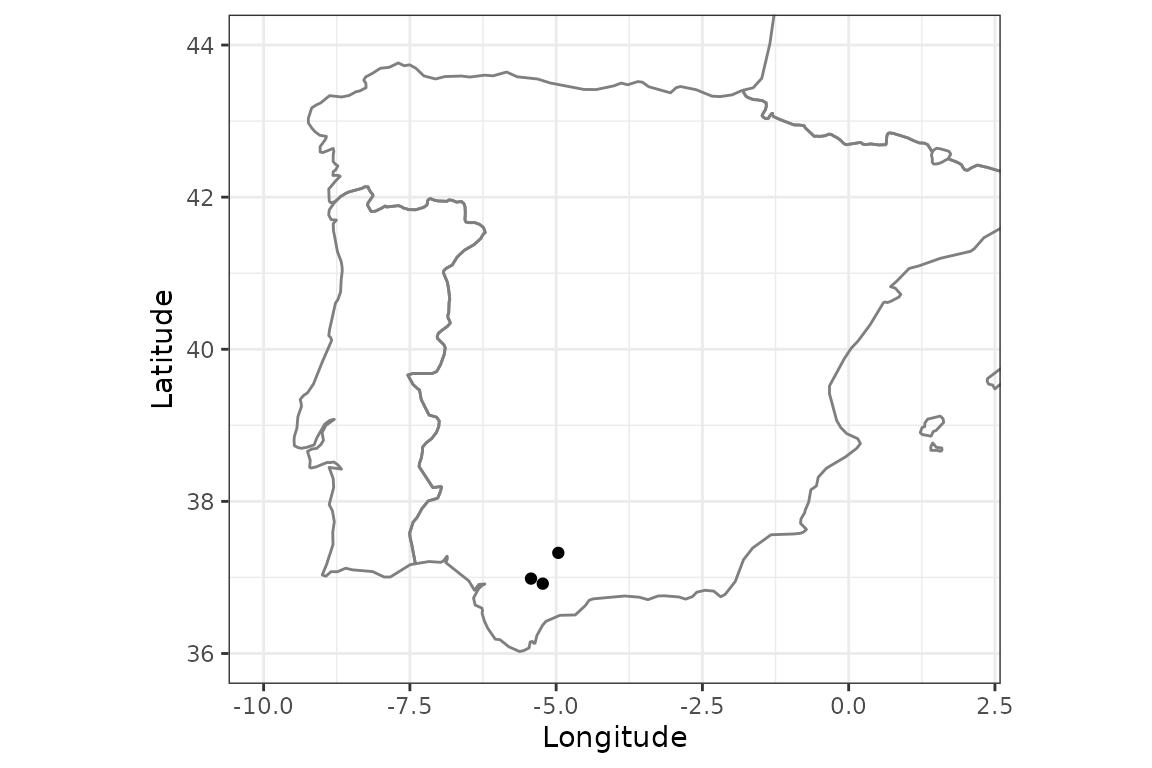
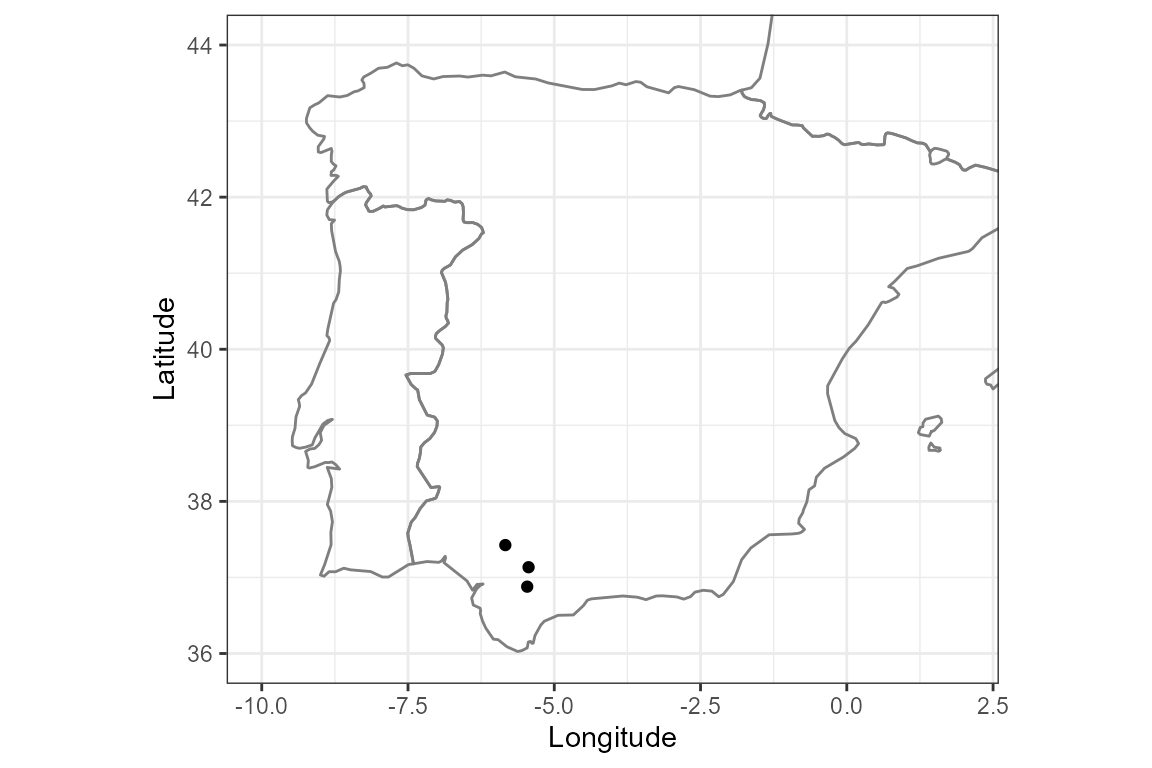
trying progress bar and review of vignettes

diff --git a/docs/articles/points-df-mat-sf.html b/docs/articles/points-df-mat-sf.html
@@ -82,7 +82,7 @@
 
       
 
-      </header><script src="points-df-mat-sf_files/header-attrs-2.9/header-attrs.js"></script><div class="row">
+      </header><script src="points-df-mat-sf_files/header-attrs-2.8/header-attrs.js"></script><div class="row">
   <div class="col-md-9 contents">
     <div class="page-header toc-ignore">
       <h1 data-toc-skip>Analysing the climate at spatial points for a given period</h1>
@@ -95,15 +95,16 @@
 
     
     
-<p><code>easyclimate</code> aims to easily download daily climate data for a given set of points or polygons within Europe. You can download and install the latest version of <code>easyclimate</code> from github: <a href="https://github.com/VeruGHub/easyclimate" class="uri">https://github.com/VeruGHub/easyclimate</a></p>
+<pre><code>## Warning: package 'knitr' was built under R version 4.0.5</code></pre>
+<p><code>easyclimate</code> aims to easily download daily climate data for a given set of points or polygons within Europe. To download and install the latest version of <code>easyclimate</code> from github follow the instructions in <a href="https://github.com/VeruGHub/easyclimate" class="uri">https://github.com/VeruGHub/easyclimate</a></p>
 <p><br></p>
-<p>In this tutorial we will work through the basics of using easyclimate with coordinate points. You can enter coordinates as a data.frame, matrix, or <code>sf</code> object. At the end we will get a data frame with climatic variables for our points.</p>
+<p>In this tutorial we will work through the basics of using easyclimate with coordinate points. You can enter coordinates as a <code>data.frame</code>, <code>matrix</code>, or <code>sf</code> object. At the end we will get a data frame with climatic variables for our points.</p>
 <p><br></p>
 <div id="example-1-introducing-coordinates-as-a-data-frame" class="section level1">
 <h1 class="hasAnchor">
 <a href="#example-1-introducing-coordinates-as-a-data-frame" class="anchor"></a>Example 1: Introducing coordinates as a data frame</h1>
 <p>First, specify longitude and latitude coordinates in a data frame with the column names <code>lon</code> and <code>lat</code>. Here we are simulating coordinates for three random sites in southern Spain</p>
-<div class="sourceCode" id="cb1"><pre class="downlit sourceCode r">
+<div class="sourceCode" id="cb2"><pre class="downlit sourceCode r">
 <code class="sourceCode R"><span class="kw"><a href="https://rdrr.io/r/base/library.html">library</a></span><span class="op">(</span><span class="va"><a href="https://github.com/VeruGHub/easyclimate">easyclimate</a></span><span class="op">)</span>
 <span class="kw"><a href="https://rdrr.io/r/base/library.html">library</a></span><span class="op">(</span><span class="va"><a href="https://ggplot2.tidyverse.org">ggplot2</a></span><span class="op">)</span>
 <span class="kw"><a href="https://rdrr.io/r/base/library.html">library</a></span><span class="op">(</span><span class="va"><a href="https://dplyr.tidyverse.org">dplyr</a></span><span class="op">)</span>
@@ -123,10 +124,10 @@
 <p><img src="points-df-mat-sf_files/figure-html/unnamed-chunk-1-1.png" width="576"></p>
 <p><br></p>
 <p>Now, download the climatic data for the selected locations. It is very simple, all you have to do is use the function <code>get_daily_climate</code>, specify the period (e.g. <code>2008-05-25</code> for a single day or <code>2008:2010</code> for several years), and the variables to be downloaded (precipitation <code>Prcp</code>, minimum temperatures <code>Tmin</code> or maximum temperatures <code>Tmax</code>).</p>
-<div class="sourceCode" id="cb2"><pre class="downlit sourceCode r">
+<div class="sourceCode" id="cb3"><pre class="downlit sourceCode r">
 <code class="sourceCode R">
 <span class="fu"><a href="https://rdrr.io/r/base/Sys.time.html">Sys.time</a></span><span class="op">(</span><span class="op">)</span> <span class="co"># to know how much it takes to download</span>
-<span class="co">## [1] "2021-07-07 18:20:51 CEST"</span>
+<span class="co">## [1] "2021-07-09 23:33:45 EDT"</span>
 
 <span class="va">df_prcp</span> <span class="op">&lt;-</span> <span class="fu"><a href="../reference/get_daily_climate.html">get_daily_climate</a></span><span class="op">(</span>
   coords <span class="op">=</span> <span class="va">coords</span>, 
@@ -147,18 +148,18 @@
 <span class="op">)</span>
 
 <span class="fu"><a href="https://rdrr.io/r/base/Sys.time.html">Sys.time</a></span><span class="op">(</span><span class="op">)</span>
-<span class="co">## [1] "2021-07-07 18:23:25 CEST"</span>
+<span class="co">## [1] "2021-07-09 23:39:36 EDT"</span>
 
 <span class="fu"><a href="https://rdrr.io/pkg/terra/man/headtail.html">head</a></span><span class="op">(</span><span class="va">df_prcp</span><span class="op">[</span>, <span class="fu"><a href="https://rdrr.io/pkg/terra/man/c.html">c</a></span><span class="op">(</span><span class="st">"lon"</span>, <span class="st">"lat"</span>, <span class="st">"date"</span>, <span class="st">"Prcp"</span><span class="op">)</span><span class="op">]</span><span class="op">)</span>
 <span class="co">##         lon      lat       date Prcp</span>
-<span class="co">## 1 -5.429536 36.98474 2008-01-01  227</span>
-<span class="co">## 2 -5.429536 36.98474 2008-01-02 2328</span>
-<span class="co">## 3 -5.429536 36.98474 2008-01-03  925</span>
-<span class="co">## 4 -5.429536 36.98474 2008-01-04    0</span>
-<span class="co">## 5 -5.429536 36.98474 2008-01-05    0</span>
-<span class="co">## 6 -5.429536 36.98474 2008-01-06    0</span></code></pre></div>
+<span class="co">## 1 -5.836705 37.42518 2008-01-01  730</span>
+<span class="co">## 2 -5.836705 37.42518 2008-01-02 2349</span>
+<span class="co">## 3 -5.836705 37.42518 2008-01-03  309</span>
+<span class="co">## 4 -5.836705 37.42518 2008-01-04    0</span>
+<span class="co">## 5 -5.836705 37.42518 2008-01-05    0</span>
+<span class="co">## 6 -5.836705 37.42518 2008-01-06    0</span></code></pre></div>
 <p>Temperature and precipitation units are ºC*100 and mm*100 to avoid floating values. You can mutate them and join all the variables in a data frame.</p>
-<div class="sourceCode" id="cb3"><pre class="downlit sourceCode r">
+<div class="sourceCode" id="cb4"><pre class="downlit sourceCode r">
 <code class="sourceCode R">
 <span class="va">prcp_date</span> <span class="op">&lt;-</span> <span class="va">df_prcp</span> <span class="op">%&gt;%</span>
   <span class="fu"><a href="https://dplyr.tidyverse.org/reference/mutate.html">mutate</a></span><span class="op">(</span>prcp <span class="op">=</span> <span class="va">Prcp</span> <span class="op">/</span> <span class="fl">100</span><span class="op">)</span> <span class="op">%&gt;%</span> 
@@ -199,75 +200,75 @@
 <tbody>
 <tr class="odd">
 <td align="right">1</td>
-<td align="right">-5.429536</td>
-<td align="right">36.98474</td>
+<td align="right">-5.836705</td>
+<td align="right">37.42518</td>
 <td align="left">2008-01-01</td>
 <td align="left">08</td>
 <td align="left">enero</td>
-<td align="right">2.27</td>
-<td align="right">3.84</td>
-<td align="right">14.87</td>
+<td align="right">7.30</td>
+<td align="right">4.52</td>
+<td align="right">14.39</td>
 </tr>
 <tr class="even">
 <td align="right">1</td>
-<td align="right">-5.429536</td>
-<td align="right">36.98474</td>
+<td align="right">-5.836705</td>
+<td align="right">37.42518</td>
 <td align="left">2008-01-02</td>
 <td align="left">08</td>
 <td align="left">enero</td>
-<td align="right">23.28</td>
-<td align="right">7.57</td>
-<td align="right">15.03</td>
+<td align="right">23.49</td>
+<td align="right">9.85</td>
+<td align="right">15.91</td>
 </tr>
 <tr class="odd">
 <td align="right">1</td>
-<td align="right">-5.429536</td>
-<td align="right">36.98474</td>
+<td align="right">-5.836705</td>
+<td align="right">37.42518</td>
 <td align="left">2008-01-03</td>
 <td align="left">08</td>
 <td align="left">enero</td>
-<td align="right">9.25</td>
-<td align="right">6.31</td>
-<td align="right">14.85</td>
+<td align="right">3.09</td>
+<td align="right">8.54</td>
+<td align="right">14.60</td>
 </tr>
 <tr class="even">
 <td align="right">1</td>
-<td align="right">-5.429536</td>
-<td align="right">36.98474</td>
+<td align="right">-5.836705</td>
+<td align="right">37.42518</td>
 <td align="left">2008-01-04</td>
 <td align="left">08</td>
 <td align="left">enero</td>
 <td align="right">0.00</td>
-<td align="right">5.40</td>
-<td align="right">13.24</td>
+<td align="right">6.55</td>
+<td align="right">14.21</td>
 </tr>
 <tr class="odd">
 <td align="right">1</td>
-<td align="right">-5.429536</td>
-<td align="right">36.98474</td>
+<td align="right">-5.836705</td>
+<td align="right">37.42518</td>
 <td align="left">2008-01-05</td>
 <td align="left">08</td>
 <td align="left">enero</td>
 <td align="right">0.00</td>
-<td align="right">5.21</td>
-<td align="right">14.86</td>
+<td align="right">6.21</td>
+<td align="right">14.64</td>
 </tr>
 <tr class="even">
 <td align="right">1</td>
-<td align="right">-5.429536</td>
-<td align="right">36.98474</td>
+<td align="right">-5.836705</td>
+<td align="right">37.42518</td>
 <td align="left">2008-01-06</td>
 <td align="left">08</td>
 <td align="left">enero</td>
 <td align="right">0.00</td>
-<td align="right">8.64</td>
-<td align="right">16.01</td>
+<td align="right">12.06</td>
+<td align="right">15.52</td>
 </tr>
 </tbody>
 </table>
 <p><br></p>
 <p>Finally, you can visualize the daily climate results. For example, let’s plot the precipitation for one of the sites:</p>
-<div class="sourceCode" id="cb4"><pre class="downlit sourceCode r">
+<div class="sourceCode" id="cb5"><pre class="downlit sourceCode r">
 <code class="sourceCode R"><span class="va">clim_site1</span> <span class="op">&lt;-</span> <span class="va">clim_join</span> <span class="op">%&gt;%</span> 
   <span class="fu"><a href="https://dplyr.tidyverse.org/reference/filter.html">filter</a></span><span class="op">(</span><span class="va">ID_coords</span> <span class="op">==</span> <span class="fl">1</span><span class="op">)</span>
 
@@ -278,7 +279,7 @@
 <p><img src="points-df-mat-sf_files/figure-html/unnamed-chunk-4-1.png" width="576"></p>
 <p><br></p>
 <p>Or let’s calculate daily mean temperature and plot it along with <code>tmin</code> and <code>tmax</code>:</p>
-<div class="sourceCode" id="cb5"><pre class="downlit sourceCode r">
+<div class="sourceCode" id="cb6"><pre class="downlit sourceCode r">
 <code class="sourceCode R"><span class="kw"><a href="https://rdrr.io/r/base/library.html">library</a></span><span class="op">(</span><span class="va"><a href="https://tidyr.tidyverse.org">tidyr</a></span><span class="op">)</span>
 
 <span class="va">clim_df</span> <span class="op">&lt;-</span> <span class="va">clim_join</span> <span class="op">%&gt;%</span>
@@ -294,11 +295,11 @@
   <span class="fu"><a href="https://ggplot2.tidyverse.org/reference/labs.html">ylab</a></span><span class="op">(</span><span class="st">"Temperature (ºC)"</span><span class="op">)</span> <span class="op">+</span> <span class="fu"><a href="https://ggplot2.tidyverse.org/reference/labs.html">xlab</a></span><span class="op">(</span><span class="st">""</span><span class="op">)</span> <span class="op">+</span>
   <span class="fu"><a href="https://ggplot2.tidyverse.org/reference/ggtheme.html">theme_bw</a></span><span class="op">(</span><span class="op">)</span></code></pre></div>
 <p><img src="points-df-mat-sf_files/figure-html/unnamed-chunk-5-1.png" width="576"></p>
-<div class="sourceCode" id="cb6"><pre class="downlit sourceCode r">
+<div class="sourceCode" id="cb7"><pre class="downlit sourceCode r">
 <code class="sourceCode R">
 <span class="fu"><a href="https://ggplot2.tidyverse.org/reference/ggplot.html">ggplot</a></span><span class="op">(</span><span class="va">clim_df</span>, <span class="fu"><a href="https://ggplot2.tidyverse.org/reference/aes.html">aes</a></span><span class="op">(</span>x <span class="op">=</span> <span class="va">date</span>, y <span class="op">=</span> <span class="va">temp_values</span>, color <span class="op">=</span> <span class="va">temp_vars</span><span class="op">)</span><span class="op">)</span> <span class="op">+</span> 
   <span class="fu"><a href="https://ggplot2.tidyverse.org/reference/geom_point.html">geom_point</a></span><span class="op">(</span>alpha <span class="op">=</span> <span class="fl">.1</span><span class="op">)</span> <span class="op">+</span>
-  <span class="fu"><a href="https://ggplot2.tidyverse.org/reference/scale_colour_discrete.html">scale_color_discrete</a></span><span class="op">(</span>name <span class="op">=</span> <span class="st">"Variables"</span>, 
+  <span class="fu"><a href="https://ggplot2.tidyverse.org/reference/scale_hue.html">scale_color_discrete</a></span><span class="op">(</span>name <span class="op">=</span> <span class="st">"Variables"</span>, 
                        guide <span class="op">=</span> <span class="fu"><a href="https://ggplot2.tidyverse.org/reference/guide_legend.html">guide_legend</a></span><span class="op">(</span>override.aes <span class="op">=</span> <span class="fu"><a href="https://rdrr.io/r/base/list.html">list</a></span><span class="op">(</span>alpha <span class="op">=</span> <span class="fl">1</span><span class="op">)</span><span class="op">)</span><span class="op">)</span> <span class="op">+</span>
   <span class="fu"><a href="https://ggplot2.tidyverse.org/reference/labs.html">ylab</a></span><span class="op">(</span><span class="st">"Temperature (ºC)"</span><span class="op">)</span> <span class="op">+</span> <span class="fu"><a href="https://ggplot2.tidyverse.org/reference/labs.html">xlab</a></span><span class="op">(</span><span class="st">"Date"</span><span class="op">)</span> <span class="op">+</span>
   <span class="fu"><a href="https://ggplot2.tidyverse.org/reference/ggtheme.html">theme_bw</a></span><span class="op">(</span><span class="op">)</span></code></pre></div>
@@ -310,12 +311,12 @@
 <a href="#example-2-introducing-coordinates-as-a-matrix" class="anchor"></a>Example 2: Introducing coordinates as a matrix</h1>
 <p><code>easyclimate</code> handles different input data, try now with matrices!</p>
 <p>Here we are retrieving daily precipitation data for a single year (2008).</p>
-<div class="sourceCode" id="cb7"><pre class="downlit sourceCode r">
+<div class="sourceCode" id="cb8"><pre class="downlit sourceCode r">
 <code class="sourceCode R">
 <span class="va">coords_mat</span> <span class="op">&lt;-</span> <span class="fu"><a href="https://rdrr.io/pkg/terra/man/coerce.html">as.matrix</a></span><span class="op">(</span><span class="va">coords</span><span class="op">)</span>
 
 <span class="fu"><a href="https://rdrr.io/r/base/Sys.time.html">Sys.time</a></span><span class="op">(</span><span class="op">)</span>
-<span class="co">## [1] "2021-07-07 18:23:26 CEST"</span>
+<span class="co">## [1] "2021-07-09 23:39:42 EDT"</span>
 
 <span class="va">mat_prcp</span> <span class="op">&lt;-</span> <span class="fu"><a href="../reference/get_daily_climate.html">get_daily_climate</a></span><span class="op">(</span> 
   coords <span class="op">=</span> <span class="va">coords_mat</span>, 
@@ -324,16 +325,16 @@
 <span class="op">)</span>
 
 <span class="fu"><a href="https://rdrr.io/r/base/Sys.time.html">Sys.time</a></span><span class="op">(</span><span class="op">)</span>
-<span class="co">## [1] "2021-07-07 18:23:35 CEST"</span>
+<span class="co">## [1] "2021-07-09 23:40:01 EDT"</span>
 
 <span class="fu"><a href="https://rdrr.io/pkg/terra/man/headtail.html">head</a></span><span class="op">(</span><span class="va">mat_prcp</span><span class="op">)</span>
 <span class="co">##   ID_coords         x        y       date Prcp</span>
-<span class="co">## 1         1 -5.429536 36.98474 2008-01-01  227</span>
-<span class="co">## 2         1 -5.429536 36.98474 2008-01-02 2328</span>
-<span class="co">## 3         1 -5.429536 36.98474 2008-01-03  925</span>
-<span class="co">## 4         1 -5.429536 36.98474 2008-01-04    0</span>
-<span class="co">## 5         1 -5.429536 36.98474 2008-01-05    0</span>
-<span class="co">## 6         1 -5.429536 36.98474 2008-01-06    0</span>
+<span class="co">## 1         1 -5.836705 37.42518 2008-01-01  730</span>
+<span class="co">## 2         1 -5.836705 37.42518 2008-01-02 2349</span>
+<span class="co">## 3         1 -5.836705 37.42518 2008-01-03  309</span>
+<span class="co">## 4         1 -5.836705 37.42518 2008-01-04    0</span>
+<span class="co">## 5         1 -5.836705 37.42518 2008-01-05    0</span>
+<span class="co">## 6         1 -5.836705 37.42518 2008-01-06    0</span>
 
 <span class="va">clim_mat</span> <span class="op">&lt;-</span> <span class="va">mat_prcp</span> <span class="op">%&gt;%</span>
   <span class="fu"><a href="https://dplyr.tidyverse.org/reference/mutate.html">mutate</a></span><span class="op">(</span>
@@ -352,7 +353,7 @@
   <span class="fu"><a href="https://ggplot2.tidyverse.org/reference/labs.html">ylab</a></span><span class="op">(</span><span class="st">"Daily precipitation (mm)"</span><span class="op">)</span> <span class="op">+</span> <span class="fu"><a href="https://ggplot2.tidyverse.org/reference/labs.html">xlab</a></span><span class="op">(</span><span class="st">"Date"</span><span class="op">)</span> <span class="op">+</span>
   <span class="fu"><a href="https://ggplot2.tidyverse.org/reference/ggtheme.html">theme_bw</a></span><span class="op">(</span><span class="op">)</span></code></pre></div>
 <p><img src="points-df-mat-sf_files/figure-html/unnamed-chunk-6-1.png" width="576"></p>
-<div class="sourceCode" id="cb8"><pre class="downlit sourceCode r">
+<div class="sourceCode" id="cb9"><pre class="downlit sourceCode r">
 <code class="sourceCode R">
 <span class="va">month_name</span> <span class="op">&lt;-</span> <span class="fu"><a href="https://rdrr.io/r/base/format.html">format</a></span><span class="op">(</span><span class="fu"><a href="https://rdrr.io/r/base/ISOdatetime.html">ISOdate</a></span><span class="op">(</span><span class="fl">2021</span>, <span class="fl">1</span><span class="op">:</span><span class="fl">12</span>, <span class="fl">1</span><span class="op">)</span>, <span class="st">"%B"</span><span class="op">)</span>
 
@@ -360,9 +361,9 @@
   <span class="fu"><a href="https://dplyr.tidyverse.org/reference/mutate.html">mutate</a></span><span class="op">(</span>month <span class="op">=</span> <span class="fu"><a href="https://rdrr.io/r/base/factor.html">factor</a></span><span class="op">(</span><span class="va">month</span>, <span class="fu"><a href="https://rdrr.io/pkg/terra/man/flip.html">rev</a></span><span class="op">(</span><span class="va">month_name</span><span class="op">)</span><span class="op">)</span><span class="op">)</span> <span class="op">%&gt;%</span>
   <span class="fu"><a href="https://ggplot2.tidyverse.org/reference/ggplot.html">ggplot</a></span><span class="op">(</span><span class="fu"><a href="https://ggplot2.tidyverse.org/reference/aes.html">aes</a></span><span class="op">(</span>x <span class="op">=</span> <span class="va">month</span>, y <span class="op">=</span> <span class="va">prcp</span>, color <span class="op">=</span> <span class="va">month</span><span class="op">)</span><span class="op">)</span> <span class="op">+</span>
   <span class="fu"><a href="https://ggplot2.tidyverse.org/reference/geom_jitter.html">geom_jitter</a></span><span class="op">(</span>size <span class="op">=</span> <span class="fl">2</span>, alpha <span class="op">=</span> <span class="fl">.3</span>, width <span class="op">=</span> <span class="fl">.3</span>, show.legend <span class="op">=</span> <span class="cn">FALSE</span><span class="op">)</span> <span class="op">+</span>
-  <span class="fu"><a href="https://ggplot2.tidyverse.org/reference/scale_continuous.html">scale_y_continuous</a></span><span class="op">(</span>expand <span class="op">=</span> <span class="fu"><a href="https://rdrr.io/pkg/terra/man/c.html">c</a></span><span class="op">(</span><span class="fl">0</span>,<span class="fl">0</span><span class="op">)</span>, name <span class="op">=</span> <span class="st">"Precipitation\n(mm)"</span><span class="op">)</span> <span class="op">+</span>
+  <span class="fu"><a href="https://ggplot2.tidyverse.org/reference/scale_continuous.html">scale_y_continuous</a></span><span class="op">(</span>expand <span class="op">=</span> <span class="fu"><a href="https://rdrr.io/pkg/terra/man/c.html">c</a></span><span class="op">(</span><span class="fl">0</span>,<span class="fl">0</span><span class="op">)</span><span class="op">)</span> <span class="op">+</span>
   <span class="fu"><a href="https://ggplot2.tidyverse.org/reference/coord_flip.html">coord_flip</a></span><span class="op">(</span>ylim <span class="op">=</span> <span class="fu"><a href="https://rdrr.io/pkg/terra/man/c.html">c</a></span><span class="op">(</span><span class="fl">0</span>, <span class="fl">60</span><span class="op">)</span><span class="op">)</span> <span class="op">+</span>
-  <span class="fu"><a href="https://ggplot2.tidyverse.org/reference/labs.html">ylab</a></span><span class="op">(</span><span class="st">"Precipitation (mm)"</span><span class="op">)</span> <span class="op">+</span> <span class="fu"><a href="https://ggplot2.tidyverse.org/reference/labs.html">xlab</a></span><span class="op">(</span><span class="st">"Month"</span><span class="op">)</span> <span class="op">+</span>
+  <span class="fu"><a href="https://ggplot2.tidyverse.org/reference/labs.html">ylab</a></span><span class="op">(</span><span class="st">"Daily precipitation (mm)"</span><span class="op">)</span> <span class="op">+</span> <span class="fu"><a href="https://ggplot2.tidyverse.org/reference/labs.html">xlab</a></span><span class="op">(</span><span class="st">"Month"</span><span class="op">)</span> <span class="op">+</span>
   <span class="fu"><a href="https://ggplot2.tidyverse.org/reference/ggtheme.html">theme_bw</a></span><span class="op">(</span><span class="op">)</span></code></pre></div>
 <p><img src="points-df-mat-sf_files/figure-html/unnamed-chunk-6-2.png" width="576"></p>
 <p><br><br></p>
@@ -371,7 +372,7 @@
 <h1 class="hasAnchor">
 <a href="#example-3-introducing-coordinates-as-simple-feature-objects" class="anchor"></a>Example 3: Introducing coordinates as simple feature objects</h1>
 <p>Here we introduce coordinates as a <code>sf</code> object, and retrieve minimum temperature for a single day (1 January 2001).</p>
-<div class="sourceCode" id="cb9"><pre class="downlit sourceCode r">
+<div class="sourceCode" id="cb10"><pre class="downlit sourceCode r">
 <code class="sourceCode R"><span class="kw"><a href="https://rdrr.io/r/base/library.html">library</a></span><span class="op">(</span><span class="va"><a href="https://r-spatial.github.io/sf/">sf</a></span><span class="op">)</span>
 
 <span class="va">coords_sf</span> <span class="op">&lt;-</span> <span class="fu"><a href="https://r-spatial.github.io/sf/reference/st_as_sf.html">st_as_sf</a></span><span class="op">(</span>
@@ -390,8 +391,8 @@
 
 <span class="fu"><a href="https://ggplot2.tidyverse.org/reference/ggplot.html">ggplot</a></span><span class="op">(</span><span class="op">)</span> <span class="op">+</span>
   <span class="fu"><a href="https://ggplot2.tidyverse.org/reference/borders.html">borders</a></span><span class="op">(</span>regions <span class="op">=</span> <span class="fu"><a href="https://rdrr.io/pkg/terra/man/c.html">c</a></span><span class="op">(</span><span class="st">"Spain"</span>, <span class="st">"Portugal"</span><span class="op">)</span><span class="op">)</span> <span class="op">+</span>
-    <span class="fu"><a href="https://ggplot2.tidyverse.org/reference/geom_point.html">geom_point</a></span><span class="op">(</span>data <span class="op">=</span> <span class="va">clim_sf</span>, <span class="fu"><a href="https://ggplot2.tidyverse.org/reference/aes.html">aes</a></span><span class="op">(</span>x <span class="op">=</span> <span class="va">x</span>, y <span class="op">=</span> <span class="va">y</span>, color <span class="op">=</span> <span class="va">tmin</span><span class="op">)</span>, size <span class="op">=</span> <span class="fl">2</span><span class="op">)</span> <span class="op">+</span>
-  <span class="fu"><a href="https://ggplot2.tidyverse.org/reference/coord_fixed.html">coord_fixed</a></span><span class="op">(</span>xlim <span class="op">=</span> <span class="fu"><a href="https://rdrr.io/pkg/terra/man/c.html">c</a></span><span class="op">(</span><span class="op">-</span><span class="fl">10</span>, <span class="fl">0</span><span class="op">)</span>, ylim <span class="op">=</span> <span class="fu"><a href="https://rdrr.io/pkg/terra/man/c.html">c</a></span><span class="op">(</span><span class="fl">36</span>, <span class="fl">40</span><span class="op">)</span>, ratio <span class="op">=</span> <span class="fl">1.3</span><span class="op">)</span> <span class="op">+</span> 
+    <span class="fu"><a href="https://ggplot2.tidyverse.org/reference/geom_point.html">geom_point</a></span><span class="op">(</span>data <span class="op">=</span> <span class="va">clim_sf</span>, <span class="fu"><a href="https://ggplot2.tidyverse.org/reference/aes.html">aes</a></span><span class="op">(</span>x <span class="op">=</span> <span class="va">x</span>, y <span class="op">=</span> <span class="va">y</span>, color <span class="op">=</span> <span class="va">tmin</span><span class="op">)</span>, size <span class="op">=</span> <span class="fl">2</span><span class="op">)</span> <span class="op">+</span> 
+  <span class="fu"><a href="https://ggplot2.tidyverse.org/reference/coord_fixed.html">coord_fixed</a></span><span class="op">(</span>xlim <span class="op">=</span> <span class="fu"><a href="https://rdrr.io/pkg/terra/man/c.html">c</a></span><span class="op">(</span><span class="op">-</span><span class="fl">10</span>, <span class="fl">2</span><span class="op">)</span>, ylim <span class="op">=</span> <span class="fu"><a href="https://rdrr.io/pkg/terra/man/c.html">c</a></span><span class="op">(</span><span class="fl">36</span>, <span class="fl">44</span><span class="op">)</span>, ratio <span class="op">=</span> <span class="fl">1.3</span><span class="op">)</span> <span class="op">+</span>  
   <span class="fu"><a href="https://ggplot2.tidyverse.org/reference/scale_colour_continuous.html">scale_color_continuous</a></span><span class="op">(</span>type <span class="op">=</span> <span class="st">"viridis"</span>, name <span class="op">=</span> <span class="st">"Minimum\ntemperature (ºC)"</span><span class="op">)</span> <span class="op">+</span>
     <span class="fu"><a href="https://ggplot2.tidyverse.org/reference/labs.html">ylab</a></span><span class="op">(</span><span class="st">"Latitude"</span><span class="op">)</span> <span class="op">+</span> <span class="fu"><a href="https://ggplot2.tidyverse.org/reference/labs.html">xlab</a></span><span class="op">(</span><span class="st">"Longitude"</span><span class="op">)</span> <span class="op">+</span>
   <span class="fu"><a href="https://ggplot2.tidyverse.org/reference/ggtheme.html">theme_bw</a></span><span class="op">(</span><span class="op">)</span></code></pre></div>

diff --git a/docs/articles/polygons-raster.html b/docs/articles/polygons-raster.html
@@ -82,7 +82,7 @@
 
       
 
-      </header><script src="polygons-raster_files/header-attrs-2.9/header-attrs.js"></script><div class="row">
+      </header><script src="polygons-raster_files/header-attrs-2.8/header-attrs.js"></script><div class="row">
   <div class="col-md-9 contents">
     <div class="page-header toc-ignore">
       <h1 data-toc-skip>Analysing the climate of an area for a given period</h1>
@@ -95,7 +95,7 @@
 
     
     
-<p><code>easyclimate</code> aims to easily download daily climate data for a given set of points or polygons within Europe. You can download and install the latest version of <code>easyclimate</code> from github: <a href="https://github.com/VeruGHub/easyclimate" class="uri">https://github.com/VeruGHub/easyclimate</a></p>
+<p><code>easyclimate</code> aims to easily download daily climate data for a given set of points or polygons within Europe. To download and install the latest version of <code>easyclimate</code> from github follow the instructions in <a href="https://github.com/VeruGHub/easyclimate" class="uri">https://github.com/VeruGHub/easyclimate</a></p>
 <p><br></p>
 <p>In this tutorial we will work through the basics of using <code>easyclimate</code> with a spatial polygon.</p>
 <p>If you wish to download the climatic data of a specific region, you need to specify at least four corners of the polygon including the area and specify the type of output you want to obtain (i.e. a dataframe - “df” or a raster - “raster”). You can also provide the polygons of interest in a <code>sf</code> object.</p>
@@ -106,7 +106,7 @@
 <span class="va">coords_t</span> <span class="op">&lt;-</span> <span class="fu"><a href="https://rdrr.io/pkg/terra/man/vect.html">vect</a></span><span class="op">(</span><span class="st">"POLYGON ((-4.5 41, -4.5 40.5, -5 40.5, -5 41))"</span><span class="op">)</span>
 
 <span class="fu"><a href="https://rdrr.io/r/base/Sys.time.html">Sys.time</a></span><span class="op">(</span><span class="op">)</span> <span class="co"># to know how much it takes to download</span>
-<span class="co">## [1] "2021-07-07 18:23:59 CEST"</span>
+<span class="co">## [1] "2021-07-09 23:41:00 EDT"</span>
 
 <span class="va">df_tmax</span> <span class="op">&lt;-</span> <span class="fu"><a href="../reference/get_daily_climate.html">get_daily_climate</a></span><span class="op">(</span>
   <span class="va">coords_t</span>,
@@ -116,7 +116,7 @@
   <span class="op">)</span>
 
 <span class="fu"><a href="https://rdrr.io/r/base/Sys.time.html">Sys.time</a></span><span class="op">(</span><span class="op">)</span>
-<span class="co">## [1] "2021-07-07 18:24:12 CEST"</span>
+<span class="co">## [1] "2021-07-09 23:41:27 EDT"</span>
 
 <span class="fu"><a href="https://rdrr.io/pkg/terra/man/headtail.html">head</a></span><span class="op">(</span><span class="va">df_tmax</span><span class="op">)</span>
 <span class="co">##   ID_coords         x        y       date Tmax</span>
@@ -161,7 +161,7 @@
 <div class="sourceCode" id="cb4"><pre class="downlit sourceCode r">
 <code class="sourceCode R">
 <span class="fu"><a href="https://rdrr.io/r/base/Sys.time.html">Sys.time</a></span><span class="op">(</span><span class="op">)</span>
-<span class="co">## [1] "2021-07-07 18:24:14 CEST"</span>
+<span class="co">## [1] "2021-07-09 23:41:43 EDT"</span>
 
 <span class="va">ras_tmax</span> <span class="op">&lt;-</span> <span class="fu"><a href="../reference/get_daily_climate.html">get_daily_climate</a></span><span class="op">(</span>
   <span class="va">coords_t</span>,
@@ -171,7 +171,7 @@
   <span class="op">)</span>
 
 <span class="fu"><a href="https://rdrr.io/r/base/Sys.time.html">Sys.time</a></span><span class="op">(</span><span class="op">)</span>
-<span class="co">## [1] "2021-07-07 18:24:26 CEST"</span>
+<span class="co">## [1] "2021-07-09 23:42:08 EDT"</span>
 
 <span class="va">ras_tmax</span>
 <span class="co">## class       : SpatRaster </span>

diff --git a/docs/articles/climatic-indices.html b/docs/articles/climatic-indices.html
@@ -82,7 +82,7 @@
 
       
 
-      </header><script src="climatic-indices_files/header-attrs-2.9/header-attrs.js"></script><div class="row">
+      </header><script src="climatic-indices_files/header-attrs-2.8/header-attrs.js"></script><div class="row">
   <div class="col-md-9 contents">
     <div class="page-header toc-ignore">
       <h1 data-toc-skip>Calculating basic climatic indices with data from easyclimate</h1>
@@ -518,9 +518,9 @@
     <span class="fu"><a href="https://dplyr.tidyverse.org/reference/group_by.html">group_by</a></span><span class="op">(</span><span class="va">run</span>, .add <span class="op">=</span> <span class="cn">TRUE</span><span class="op">)</span> <span class="op">%&gt;%</span> 
     <span class="fu"><a href="https://dplyr.tidyverse.org/reference/summarise.html">summarise</a></span><span class="op">(</span>length <span class="op">=</span> <span class="fu"><a href="https://dplyr.tidyverse.org/reference/context.html">n</a></span><span class="op">(</span><span class="op">)</span><span class="op">)</span> <span class="op">%&gt;%</span> 
     <span class="fu"><a href="https://dplyr.tidyverse.org/reference/group_by.html">ungroup</a></span><span class="op">(</span><span class="va">run</span><span class="op">)</span> <span class="op">%&gt;%</span> 
-    <span class="fu"><a href="https://dplyr.tidyverse.org/reference/summarise.html">summarise</a></span><span class="op">(</span>max_heatwave <span class="op">=</span> <span class="fu"><a href="https://rdrr.io/pkg/terra/man/summarize-generics.html">max</a></span><span class="op">(</span><span class="va">length</span><span class="op">)</span>,    <span class="co"># longest heatwave per year (in days)</span>
+    <span class="fu"><a href="https://dplyr.tidyverse.org/reference/summarise.html">summarise</a></span><span class="op">(</span>max_heatwave <span class="op">=</span> <span class="fu"><a href="https://rdrr.io/pkg/terra/man/summarize-generics.html">max</a></span><span class="op">(</span><span class="va">length</span><span class="op">)</span>, <span class="co"># longest heatwave per year (in days)</span>
               mean_heatwave <span class="op">=</span> <span class="fu"><a href="https://rdrr.io/pkg/terra/man/summarize-generics.html">mean</a></span><span class="op">(</span><span class="va">length</span><span class="op">)</span>, <span class="co"># average length of heatwaves per year</span>
-              n_heatwave <span class="op">=</span> <span class="fu"><a href="https://dplyr.tidyverse.org/reference/context.html">n</a></span><span class="op">(</span><span class="op">)</span><span class="op">)</span> <span class="op">%&gt;%</span>         <span class="co"># No. of events per year</span>
+              n_heatwave <span class="op">=</span> <span class="fu"><a href="https://dplyr.tidyverse.org/reference/context.html">n</a></span><span class="op">(</span><span class="op">)</span><span class="op">)</span> <span class="op">%&gt;%</span> <span class="co"># No. of events per year</span>
     <span class="fu"><a href="https://tidyr.tidyverse.org/reference/complete.html">complete</a></span><span class="op">(</span><span class="va">ID_coords</span>, <span class="va">year</span>, 
              fill <span class="op">=</span> <span class="fu"><a href="https://rdrr.io/r/base/list.html">list</a></span><span class="op">(</span>max_heatwave <span class="op">=</span> <span class="cn">NA</span>, mean_heatwave <span class="op">=</span> <span class="cn">NA</span>, nevents <span class="op">=</span> <span class="fl">0</span><span class="op">)</span><span class="op">)</span> <span class="op">%&gt;%</span> 
   <span class="fu">kable</span><span class="op">(</span>digits <span class="op">=</span> <span class="fl">1</span><span class="op">)</span></code></pre></div>
